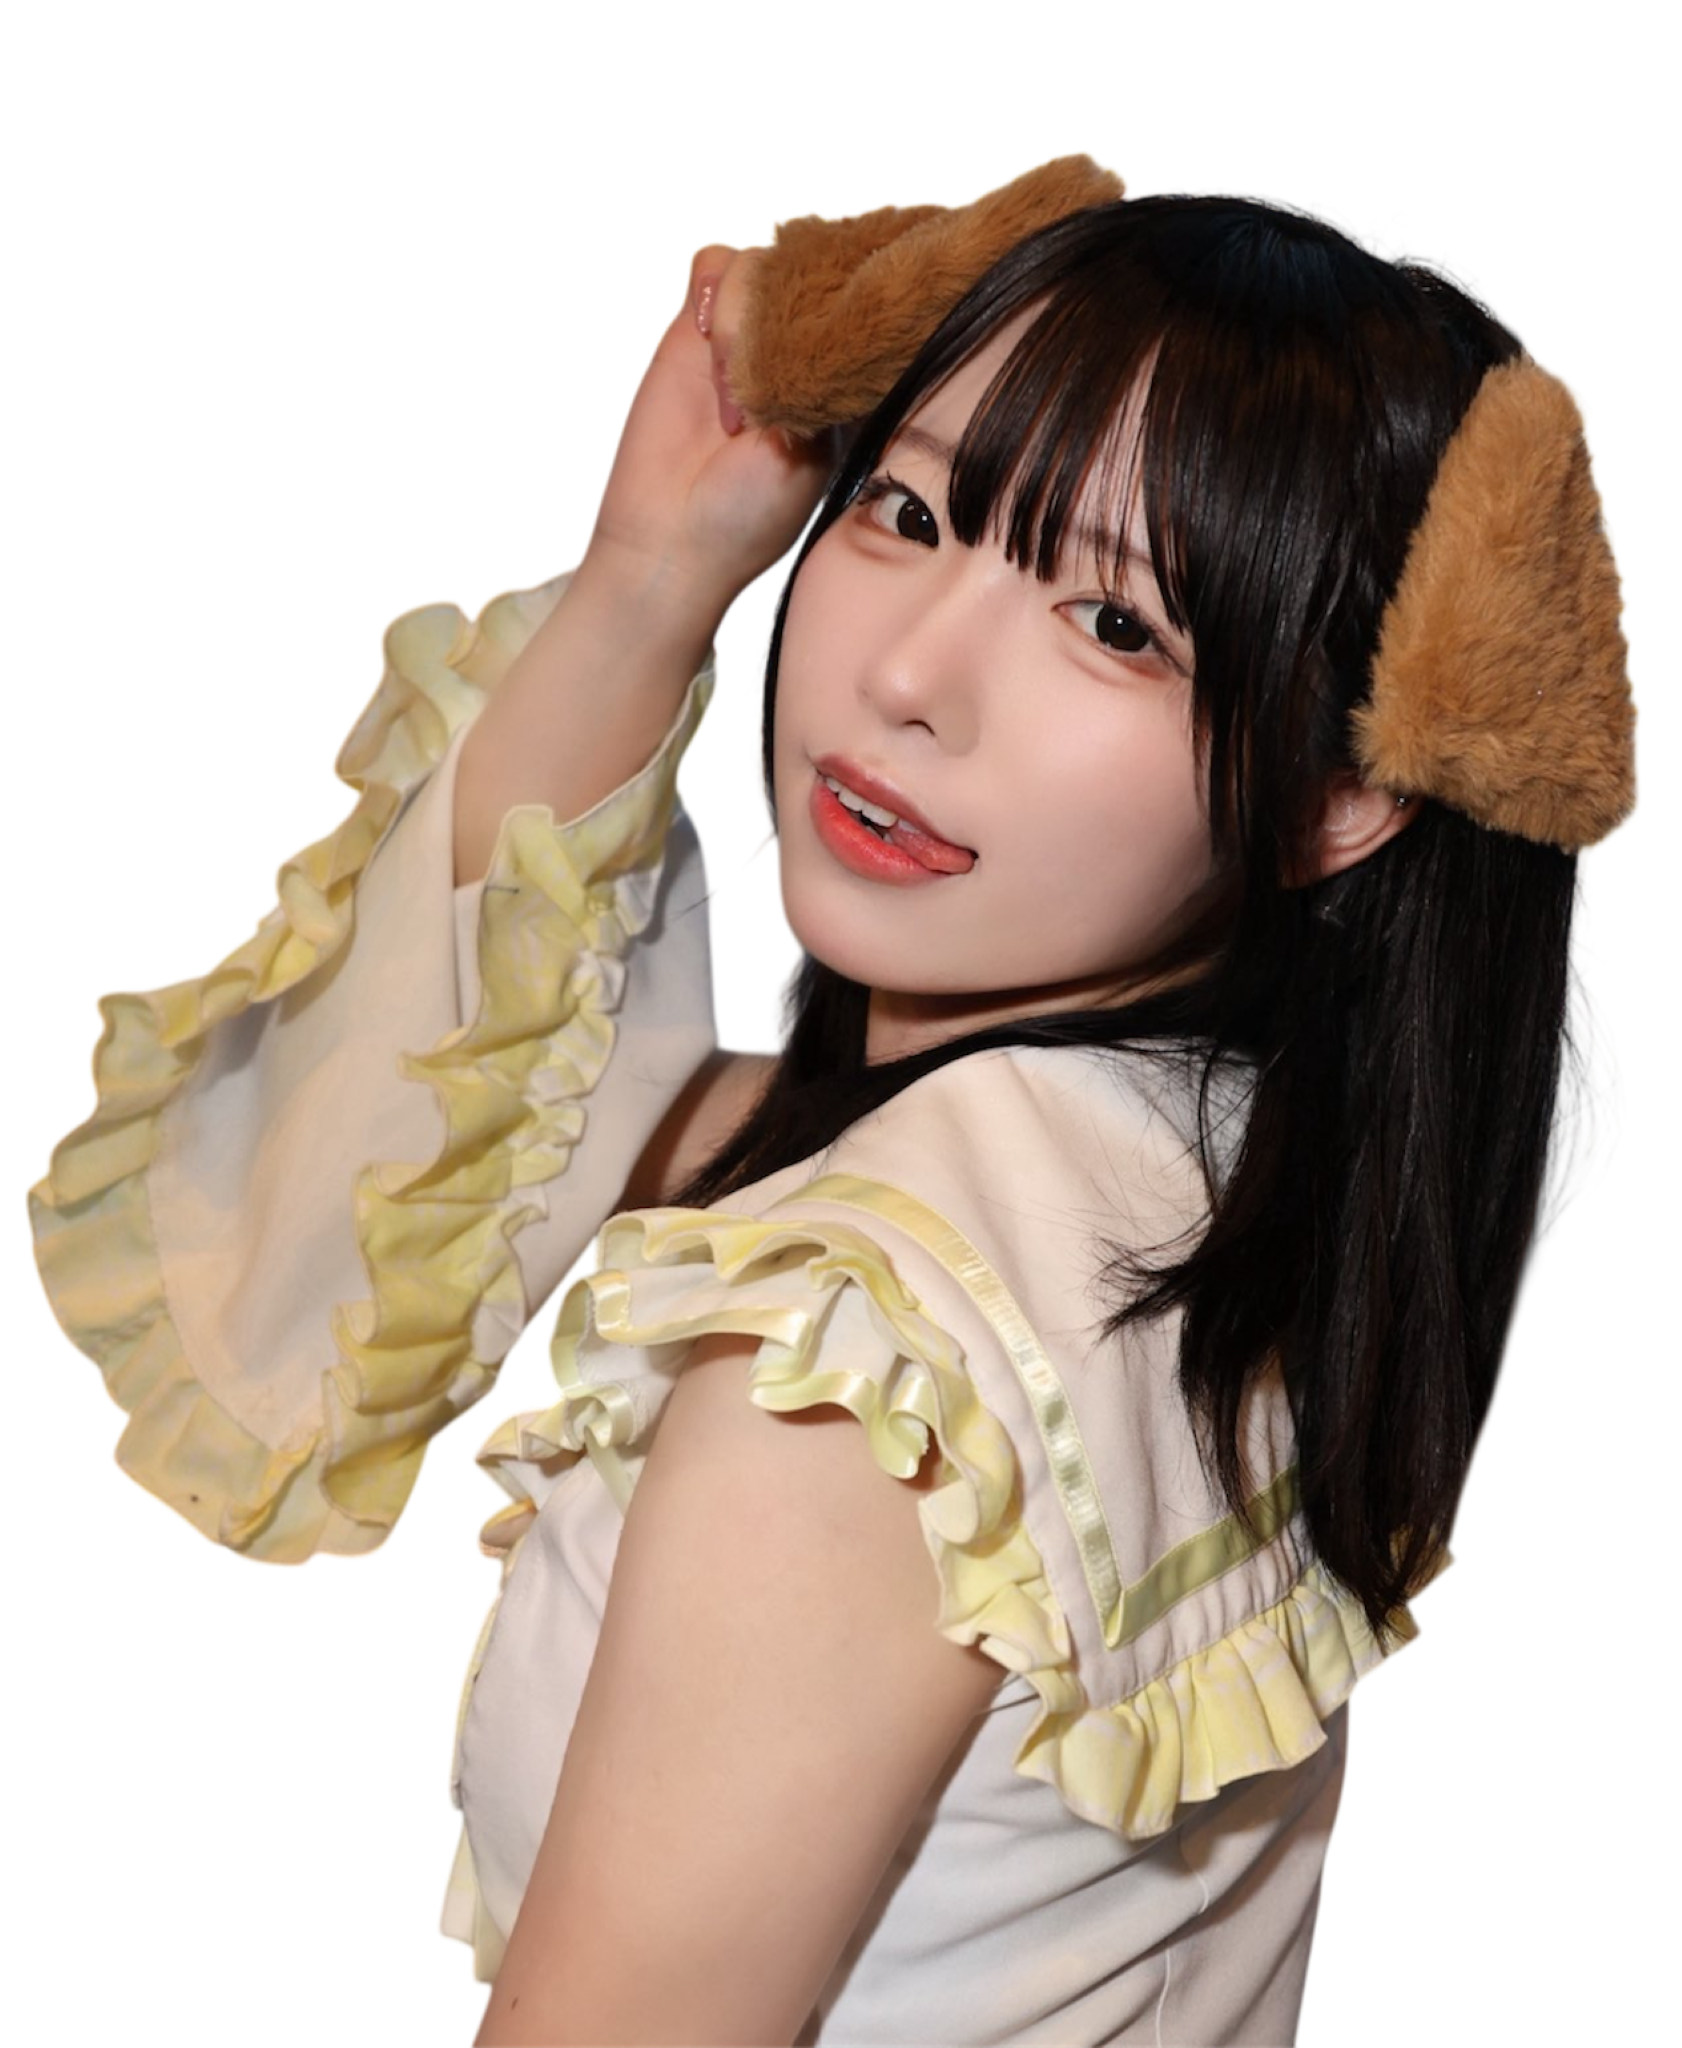
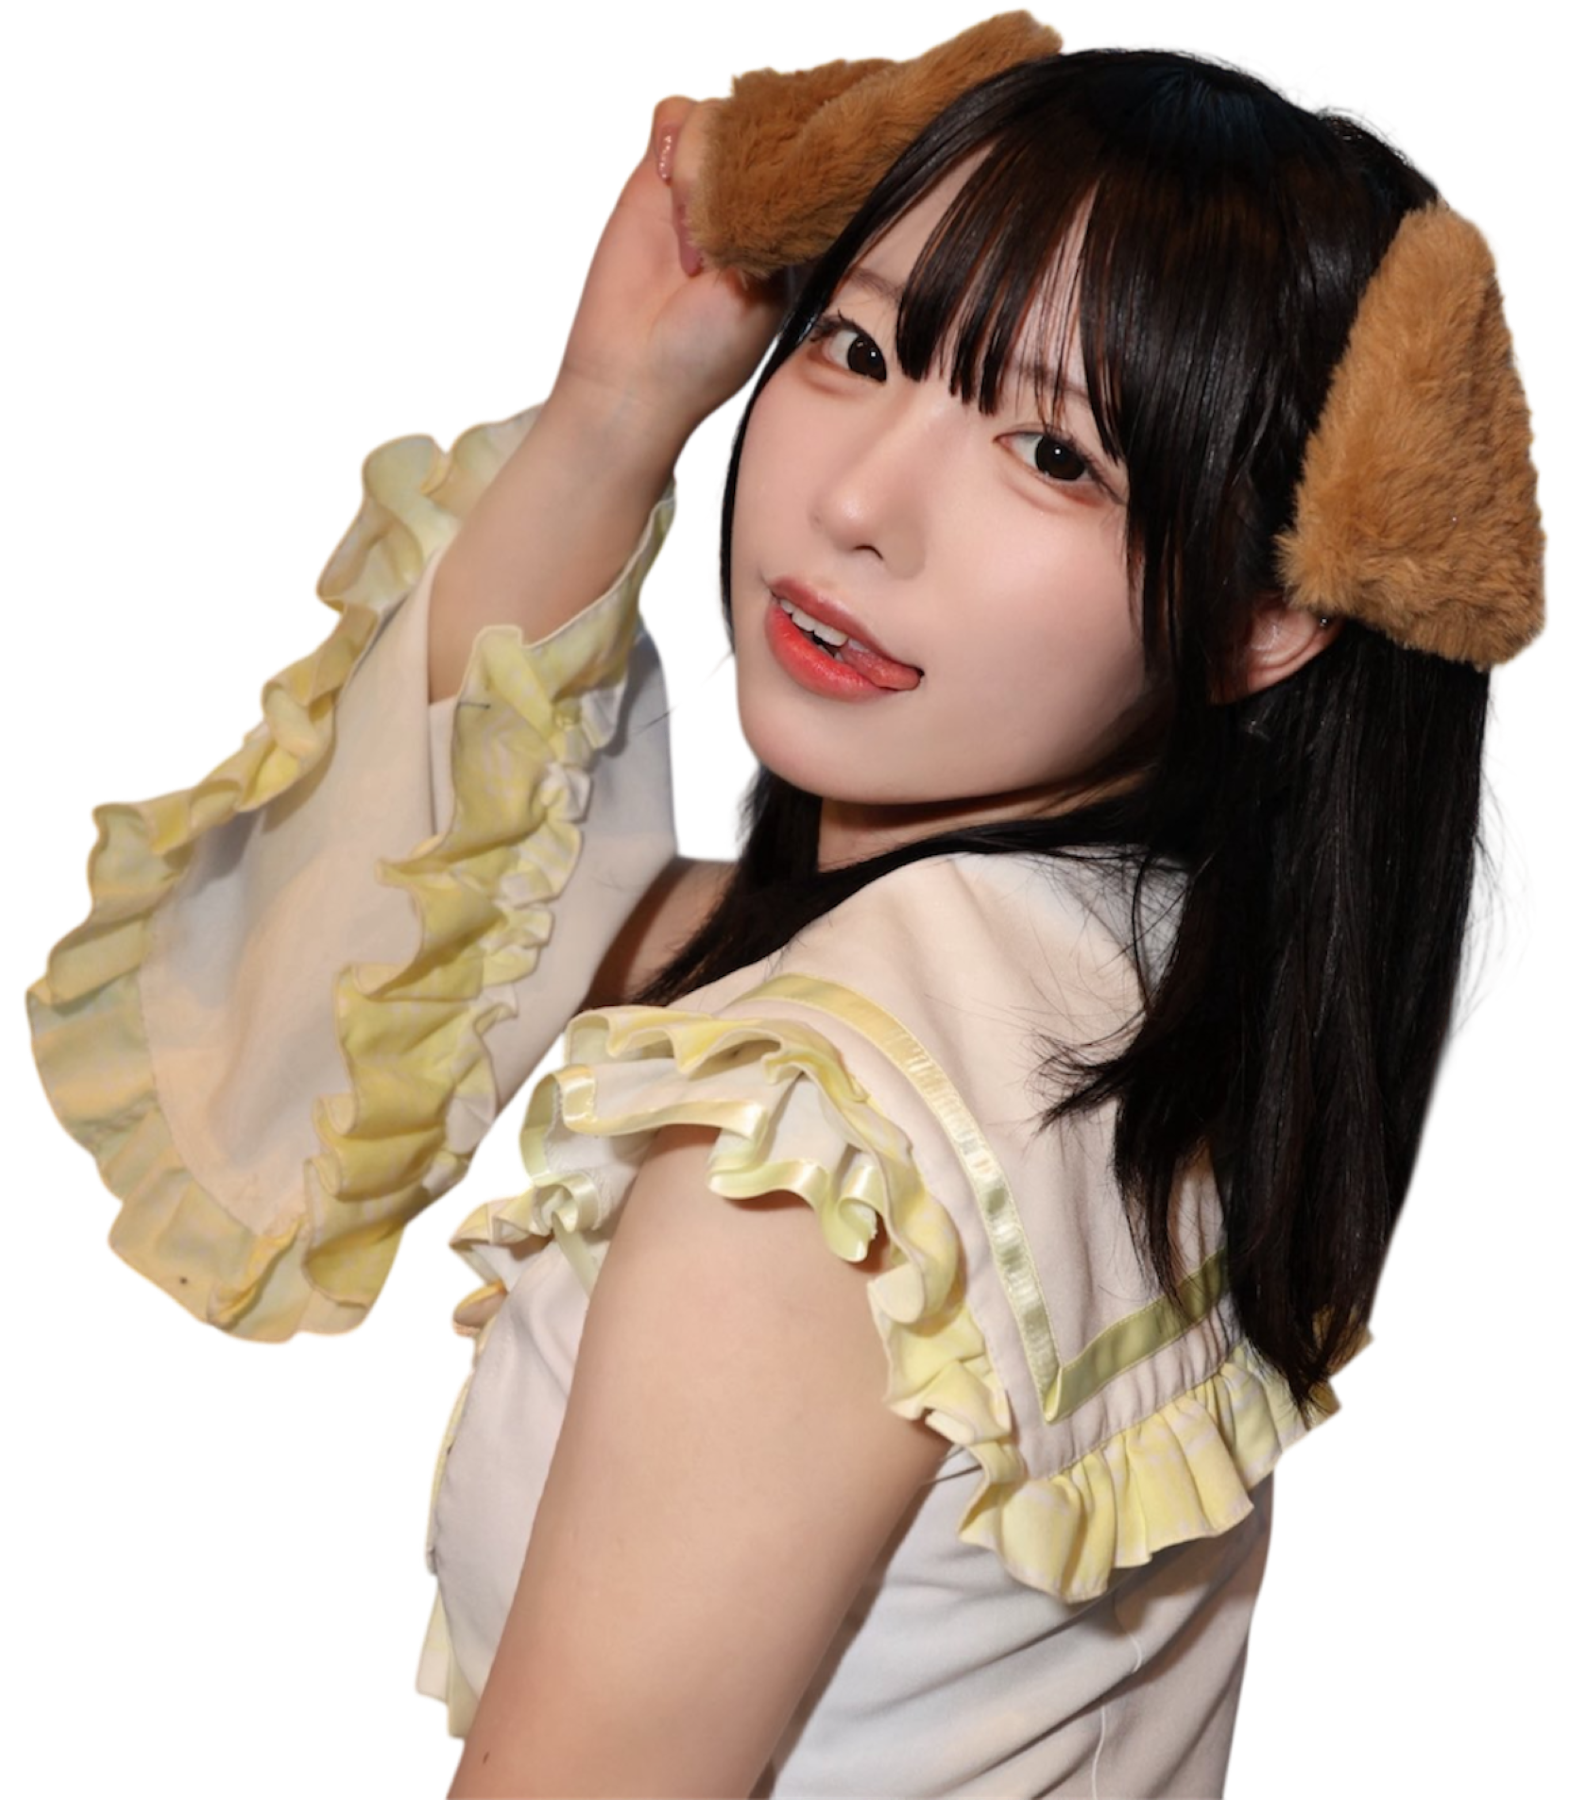
Add files via upload

diff --git a/game.html b/game.html
@@ -12,8 +12,9 @@
         /* game専用の上書き（サイトCSSと競合しないようにスコープ強め） */
         body {
             margin: 0;
-            background: #000;
+            background: linear-gradient(#dff6ff, #bfeaff);
         }
+
 
         .game-wrap {
             min-height: 100vh;
@@ -46,13 +47,24 @@
                 font-size: 14px;
             }
 
+        /* 残り時間バー（見やすい版） */
         .bar {
             margin-top: 10px;
-            height: 10px;
-            background: rgba(255,255,255,0.12);
+            height: 12px;
+            background: rgba(0,0,0,0.08); /* 土台を少し濃く */
+            border: 1px solid rgba(0,0,0,0.12); /* 枠線 */
             border-radius: 999px;
             overflow: hidden;
         }
+
+            .bar > div {
+                height: 100%;
+                width: 100%;
+                background: rgba(0,160,255,0.85); /* 水色系で濃く */
+                transform-origin: left center;
+                transform: scaleX(1);
+            }
+
 
             .bar > div {
                 height: 100%;
@@ -119,14 +131,17 @@
         }
 
             .count-board .cell {
-                background: rgba(0,0,0,0.25);
-                border: 1px solid rgba(255,255,255,0.14);
-                border-radius: 12px;
+                background: linear-gradient(#e6f7ff, #cceeff);
+                border: 1px solid rgba(0,140,220,0.35);
+                border-radius: 14px;
                 padding: 10px 10px;
                 display: flex;
                 justify-content: space-between;
                 align-items: center;
+                color: #045d9a; /* 文字色も水色寄りに */
+                box-shadow: 0 4px 10px rgba(0,120,200,0.15);
             }
+
 
                 .count-board .cell b {
                     font-size: 14px;
@@ -291,6 +306,66 @@
             }
 
 
+        .side-chara {
+            display: flex;
+            align-items: stretch;
+            gap: 12px;
+        }
+
+        .question-chara-side {
+            width: 110px;
+            height: auto;
+            flex-shrink: 0;
+            filter: drop-shadow(0 6px 10px rgba(0,0,0,0.4));
+        }
+
+        .prompt-text-wrap {
+            display: flex;
+            flex-direction: column;
+            justify-content: center;
+        }
+
+        .prompt-sub {
+            margin-top: 6px;
+            font-size: 12px;
+            opacity: 0.85;
+        }
+
+        /* 正解時ジャンプ */
+        .jump-once {
+            animation: charaJump 420ms cubic-bezier(.2,.9,.2,1) 1;
+        }
+
+        @keyframes charaJump {
+            0% {
+                transform: translateY(0) scale(1);
+            }
+
+            35% {
+                transform: translateY(-18px) scale(1.02);
+            }
+
+            70% {
+                transform: translateY(0) scale(0.99);
+            }
+
+            100% {
+                transform: translateY(0) scale(1);
+            }
+        }
+
+        .prompt-area,
+        .controls,
+        .hud {
+            background: rgba(255,255,255,0.85);
+            border: 1px solid rgba(0,0,0,0.1);
+        }
+
+        .game-wrap {
+            color: #333;
+        }
+
+
 
 
 
@@ -310,10 +385,22 @@
         </div>
 
         <div class="prompt-area">
-            <div class="prompt-label">お題</div>
-            <div class="prompt-text" id="promptText">読み込み中…</div>
+
+            <div class="prompt-head side-chara">
+                <img id="questionChara" src="images/tenra-men.png" class="question-chara-side" alt="出題キャラ">
+
+
+                <div class="prompt-text-wrap">
+                    <div class="prompt-label">てんの注文</div>
+                    <div class="prompt-text" id="promptText">読み込み中…</div>
+                </div>
+            </div>
+
             <div class="result" id="resultText"></div>
         </div>
+
+
+
 
         <div class="controls">
             <div class="count-board">
@@ -365,75 +452,101 @@
         </div>
     </div>
 
+    <!-- ルール説明モーダル -->
+    <div class="overlay" id="ruleOverlay">
+        <div class="panel">
+            <h2>遊び方</h2>
+            <p id="ruleText">
+                てんちゃんの注文通りにラーメンを作ろう！<br>
+                表示された「マシ」の数だけ各具材ボタンを押して、<br>
+                最後に決定を押してね。<br>
+                間違えたり、時間切れになるとゲームオーバーだよ。<br>
+                正解するほど制限時間が短くなるから要注意！<br>
+                がんばって高得点を目指そう！<br>
+                もしゲームオーバーになっても<br>
+                はくchu♡むのメンバーが助けてくれることがあるかも…？
+            </p>
+            <button class="panel-btn" id="ruleStartBtn">スタート！</button>
+        </div>
+    </div>
+
+
     <script>
         // =========================
         // 設定
         // =========================
         // 復活演出：画像＆セリフ（ランダム）
         const REVIVE_POOL = [
-            { src: "images/hinana.PNG", message: "まだまだいけるよ！" },
-            { src: "images/mei.PNG", message: "ここから巻き返そう！" },
-            { src: "images/ruka.PNG", message: "落ち着いていけば大丈夫！" },
+            { src: "images/hinana.png", message: "まだまだいけるよ！", size: 240 },
+            { src: "images/mei.png", message: "ここから巻き返すよ！", size: 200 },
+            { src: "images/ruka.png", message: "落ち着いていけば大丈夫！", size: 200 },
         ];
+
 
         const REVIVE_SECONDS = 3;
 
 
+
         // ===== 効果音 =====
         // ※スマホ対策で「最初のユーザー操作」で音を解放します
+        // ===== 効果音（連打に強い：プール方式）=====
         let sfxUnlocked = false;
 
-        const SFX = {
-            mash: new Audio("audio/マシ.mp3"),
-            decide: new Audio("audio/決定.mp3"),
-            correct: new Audio("audio/正解.mp3"),
-            gameover: new Audio("audio/ゲームオーバー.mp3"),
-            revive: new Audio("audio/復活.mp3"),
-        };
-
-        // 同時連打に強くする（必要なら少し短めに）
-        for (const k in SFX) {
-            SFX[k].preload = "auto";
+        function makePool(src, size = 4) {
+            const pool = Array.from({ length: size }, () => {
+                const a = new Audio(src);
+                a.preload = "auto";
+                return a;
+            });
+            return { pool, i: 0 };
         }
+
+        const SFX = {
+            mash: makePool("audio/マシ.mp3", 6),   // 連打が多いので多め
+            decide: makePool("audio/決定.mp3", 3),
+            correct: makePool("audio/正解.mp3", 3),
+            gameover: makePool("audio/ゲームオーバー.mp3", 2),
+            revive: makePool("audio/復活.mp3", 2),
+        };
 
         function unlockSfxOnce() {
             if (sfxUnlocked) return;
             sfxUnlocked = true;
 
-            // 無音再生→即停止で “ユーザー操作による再生許可” を取る
-            for (const k in SFX) {
-                try {
-                    SFX[k].muted = true;
-                    const p = SFX[k].play();
-                    if (p && typeof p.then === "function") {
-                        p.then(() => {
-                            SFX[k].pause();
-                            SFX[k].currentTime = 0;
-                            SFX[k].muted = false;
-                        }).catch(() => {
-                            // ここで失敗しても、次のタップで鳴ることが多い
-                            SFX[k].muted = false;
-                        });
-                    } else {
-                        SFX[k].pause();
-                        SFX[k].currentTime = 0;
-                        SFX[k].muted = false;
-                    }
-                } catch (e) { }
+            // “ユーザー操作で一度再生した”扱いにする（スマホ対策）
+            for (const key in SFX) {
+                for (const a of SFX[key].pool) {
+                    try {
+                        a.muted = true;
+                        const p = a.play();
+                        if (p && typeof p.then === "function") {
+                            p.then(() => {
+                                a.pause(); a.currentTime = 0; a.muted = false;
+                            }).catch(() => { a.muted = false; });
+                        } else {
+                            a.pause(); a.currentTime = 0; a.muted = false;
+                        }
+                    } catch (e) { }
+                }
             }
         }
 
         function playSfx(key) {
-            const a = SFX[key];
-            if (!a) return;
+            const s = SFX[key];
+            if (!s) return;
+
+            const a = s.pool[s.i];
+            s.i = (s.i + 1) % s.pool.length;
+
             try {
                 a.currentTime = 0;
                 a.play();
             } catch (e) { }
         }
 
-        // 画面の最初のタップ/クリックで解放
+        // 最初のユーザー操作で解放
         window.addEventListener("pointerdown", unlockSfxOnce, { once: true });
+
 
 
 
@@ -638,6 +751,16 @@
             playSfx("correct"); // ★追加
             stopTimer();
             el.resultText.textContent = "〇";
+
+            // 正解ジャンプ
+            const chara = document.getElementById("questionChara");
+            if (chara) {
+                chara.classList.remove("jump-once"); // 連続正解でも毎回発火させる
+                void chara.offsetWidth;             // ← リフローで再発火
+                chara.classList.add("jump-once");
+            }
+
+
             score += SCORE_PER_CLEAR * level;
 
             // クリアするほど難易度UP（毎回+1）
@@ -680,6 +803,8 @@
             const pick = REVIVE_POOL[Math.floor(Math.random() * REVIVE_POOL.length)];
 
             el.reviveImg.src = pick.src;
+            el.reviveImg.style.width = pick.size + "px";   // ★ここ
+            el.reviveImg.style.maxWidth = "90vw";
             el.reviveImg.style.display = "block";
 
             let t = REVIVE_SECONDS;
@@ -724,6 +849,20 @@
         }
 
 
+        function showRule() {
+            document.getElementById("ruleOverlay").classList.add("show");
+        }
+
+        document.getElementById("ruleStartBtn").addEventListener("click", () => {
+            document.getElementById("ruleOverlay").classList.remove("show");
+            startGame();
+        });
+
+
+
+
+
+
         function startGame() {
             stopTimer();
             level = 1;
@@ -766,7 +905,8 @@
         // =========================
 
         // 起動
-        startGame();
+        showRule();
+
     </script>
 </body>
 </html>
